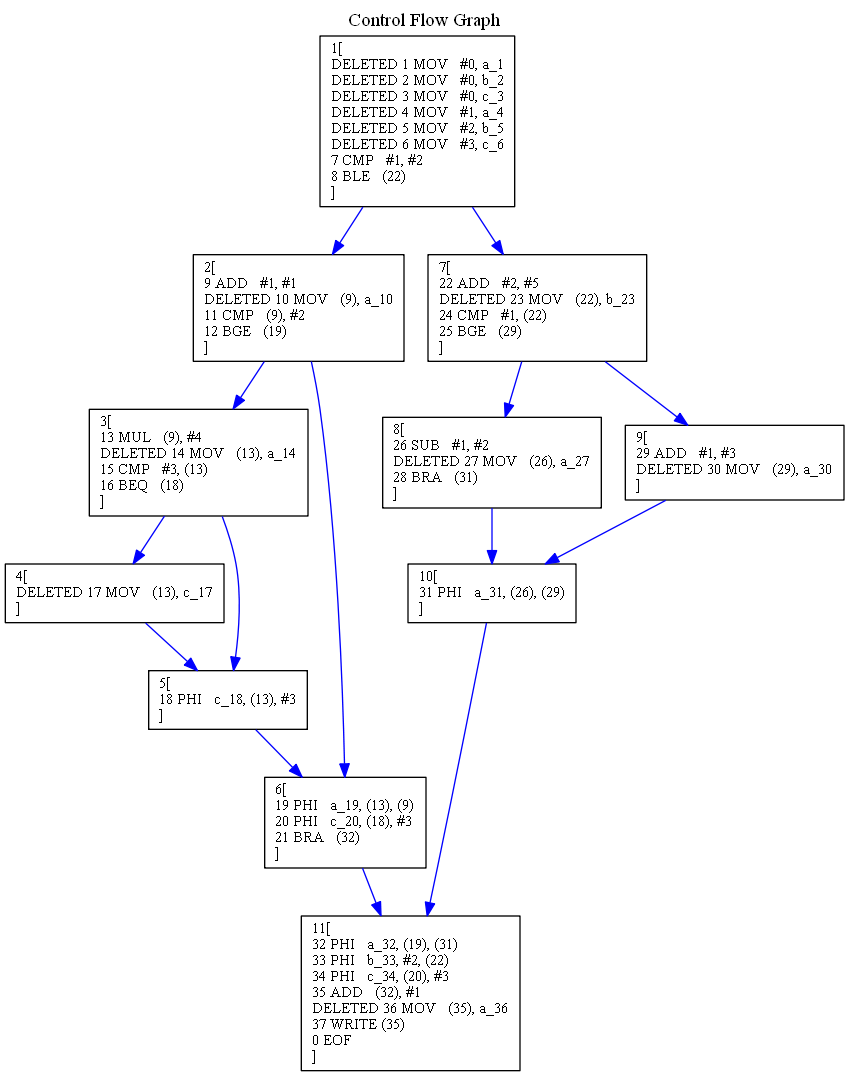
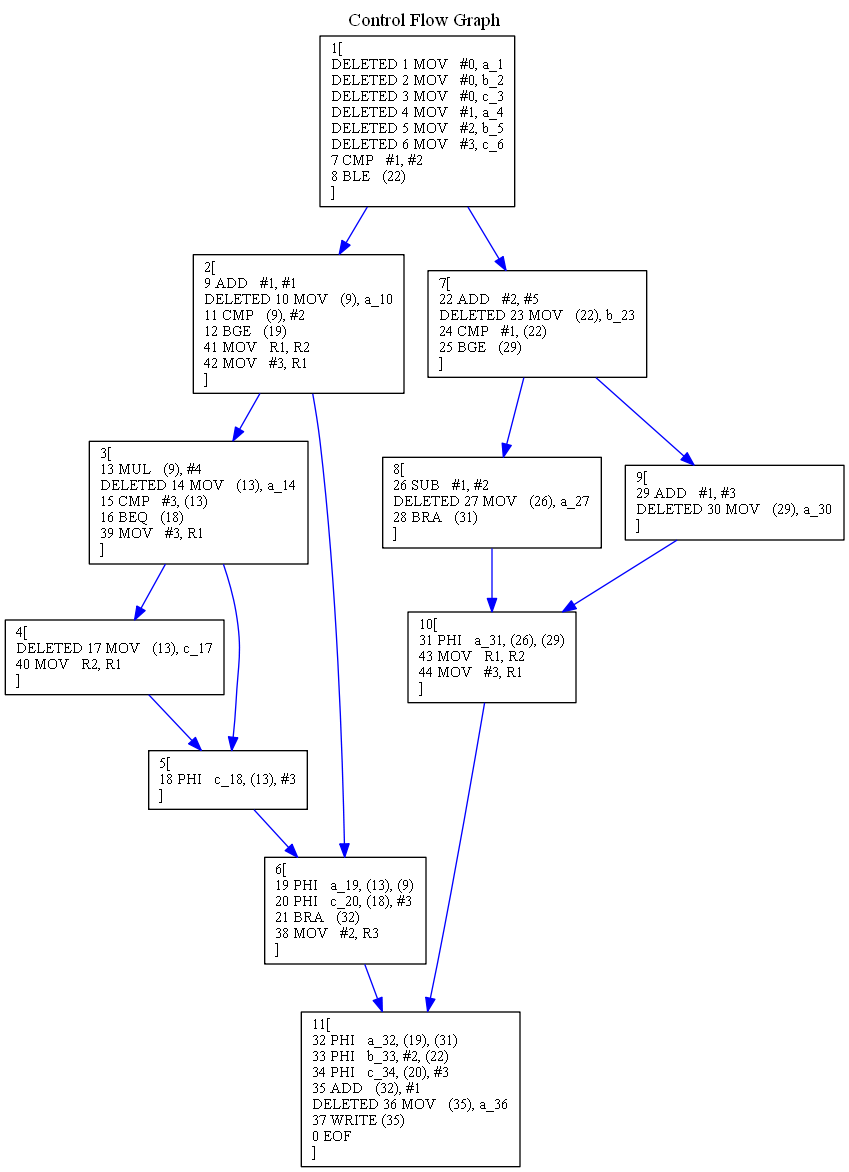
Fixed the order of move instructions

Changed region(s): [[0.0, 0.0, 0.98, 1.0], [0.735, 0.4294, 0.98, 0.4907], [0.5206, 0.6747, 0.5512, 0.7974]]

diff --git a/RegisterAllocation.java b/RegisterAllocation.java
@@ -1,9 +1,15 @@
 import java.util.ArrayList;
+import java.util.Collections;
+import java.util.Comparator;
 import java.util.HashMap;
 import java.util.HashSet;
+import java.util.Iterator;
 import java.util.List;
 import java.util.Map;
 import java.util.Set;
+import java.util.SortedSet;
+import java.util.Stack;
+import java.util.TreeSet;
 
 public class RegisterAllocation {
 	private RIG _interferenceGraph;
@@ -35,6 +41,16 @@ public class RegisterAllocation {
 		public BlockData(){
 			liveWithinBlock = new HashSet<Instruction>();
 			visitCount = 0;
+		}
+	}
+	
+	private class MovesData{
+		public List<Instruction> moves;
+		public Set<Integer> destRegisters;
+		
+		public MovesData(){
+			moves = new ArrayList<Instruction>();
+			destRegisters = new HashSet<Integer>();
 		}
 	}
 	
@@ -87,6 +103,8 @@ public class RegisterAllocation {
 	}
 	
 	private void insertMoves(){
+		Map<BasicBlock, MovesData> movedata = new HashMap<BasicBlock, MovesData>();
+		
 		for(Map.Entry<Instruction, BasicBlock> entry : _phis.entrySet()){
 			Instruction instr2 = null;
 			Instruction instr3 = null;
@@ -95,20 +113,74 @@ public class RegisterAllocation {
 			if(entry.getKey().op3 != null && entry.getKey().op3.kind == Result.Kind.INSTR)
 				instr3 = Instruction.allInstructions.get(entry.getKey().op3.version);
 			if(instr2 != null && instr2.regNo != entry.getKey().regNo){
-				generateMoveInstruction(entry.getKey().regNo, instr2.regNo, entry.getValue(), 1, false);
+				Instruction newInstr = generateMoveInstruction(entry.getKey().regNo, instr2.regNo, false);
+				if(!movedata.containsKey(entry.getValue().leftParent)){
+					MovesData m = new MovesData();
+					m.moves.add(newInstr);
+					m.destRegisters.add(entry.getKey().regNo);
+					movedata.put(entry.getValue().leftParent, m);
+				}else{
+					movedata.get(entry.getValue().leftParent).moves.add(newInstr);
+					movedata.get(entry.getValue().leftParent).destRegisters.add(entry.getKey().regNo);
+				}
 			}else if(instr2 == null && entry.getKey().op2.kind == Result.Kind.CONST){
-				generateMoveInstruction(entry.getKey().regNo, entry.getKey().op2.value, entry.getValue(), 1, true);
+				Instruction newInstr = generateMoveInstruction(entry.getKey().regNo, entry.getKey().op2.value, true);
+				if(!movedata.containsKey(entry.getValue().leftParent)){
+					MovesData m = new MovesData();
+					m.moves.add(newInstr);
+					m.destRegisters.add(entry.getKey().regNo);
+					movedata.put(entry.getValue().leftParent, m);
+				}else{
+					movedata.get(entry.getValue().leftParent).moves.add(newInstr);
+					movedata.get(entry.getValue().leftParent).destRegisters.add(entry.getKey().regNo);
+				}
 			}
 			
 			if(instr3 != null && instr3.regNo != entry.getKey().regNo){
-				generateMoveInstruction(entry.getKey().regNo, instr3.regNo, entry.getValue(), 2, false);
+				Instruction newInstr = generateMoveInstruction(entry.getKey().regNo, instr3.regNo, false);
+				if(!movedata.containsKey(entry.getValue().rightParent)){
+					MovesData m = new MovesData();
+					m.moves.add(newInstr);
+					m.destRegisters.add(entry.getKey().regNo);
+					movedata.put(entry.getValue().rightParent, m);
+				}else{
+					movedata.get(entry.getValue().rightParent).moves.add(newInstr);
+					movedata.get(entry.getValue().rightParent).destRegisters.add(entry.getKey().regNo);
+				}
 			}else if(instr3 == null && entry.getKey().op3.kind == Result.Kind.CONST){
-				generateMoveInstruction(entry.getKey().regNo, entry.getKey().op3.value, entry.getValue(), 2, true);
+				Instruction newInstr = generateMoveInstruction(entry.getKey().regNo, entry.getKey().op3.value,true);
+				if(!movedata.containsKey(entry.getValue().rightParent)){
+					MovesData m = new MovesData();
+					m.moves.add(newInstr);
+					m.destRegisters.add(entry.getKey().regNo);
+					movedata.put(entry.getValue().rightParent, m);
+				}else{
+					movedata.get(entry.getValue().rightParent).moves.add(newInstr);
+					movedata.get(entry.getValue().rightParent).destRegisters.add(entry.getKey().regNo);
+				}
+			}
+		}
+		
+		for(Map.Entry<BasicBlock, MovesData> ent : movedata.entrySet()){
+			Stack<Instruction> movestack = new Stack<Instruction>();
+			while(!ent.getValue().moves.isEmpty()){
+				Iterator<Instruction> it = ent.getValue().moves.iterator();
+				while(it.hasNext()){
+					Instruction mo = it.next();
+					if((mo.op1 != null && mo.op1.kind == Result.Kind.CONST) || !ent.getValue().destRegisters.contains(mo.op1.regNo)){
+						movestack.push(mo);
+						it.remove();
+						ent.getValue().destRegisters.remove(mo.op2.regNo);
+					}
+				}
+			}
+			while(!movestack.isEmpty()){
+				addMoveToBlock(movestack.pop(), ent.getKey());
 			}
 		}
 	}
 	
-	private void generateMoveInstruction(int destReg, int source, BasicBlock current, int branch, boolean constant){
+	private Instruction generateMoveInstruction(int destReg, int source, boolean constant){
 		Instruction instr = new Instruction();
 		instr.kind = Instruction.Kind.STD;
 		Result dest = new Result();
@@ -125,15 +197,14 @@ public class RegisterAllocation {
 		}
 		instr.op1 = s;
 		instr.op2 = dest;
-		instr.instructionNumber = Parser._lineNum;
 		instr.regNo = destReg;
-		if(branch == 1){
-			instr.thisBlock = current.leftParent;
-			current.leftParent.instructions.put(Parser._lineNum++, instr);
-		}else if(branch == 2){
-			instr.thisBlock = current.rightParent;
-			current.rightParent.instructions.put(Parser._lineNum++, instr);
-		}
+		return instr;
+	}
+	
+	private void addMoveToBlock(Instruction move, BasicBlock target){
+		move.instructionNumber = Parser._lineNum;
+		move.thisBlock = target;
+		target.instructions.put(Parser._lineNum++, move);
 	}
 	
 	private int colorNode(RIGNode node, Instruction instr, int color){

diff --git a/Test.java b/Test.java
@@ -7,7 +7,7 @@ public class Test {
 //			System.out.println(s.sym);
 //		}
 //	    
-	    Parser parser = new Parser("C:/Users/harshini/workspace/Compiler/src/test007.txt");
+	    Parser parser = new Parser("Tests/test009.txt");
 
 	}
 }
